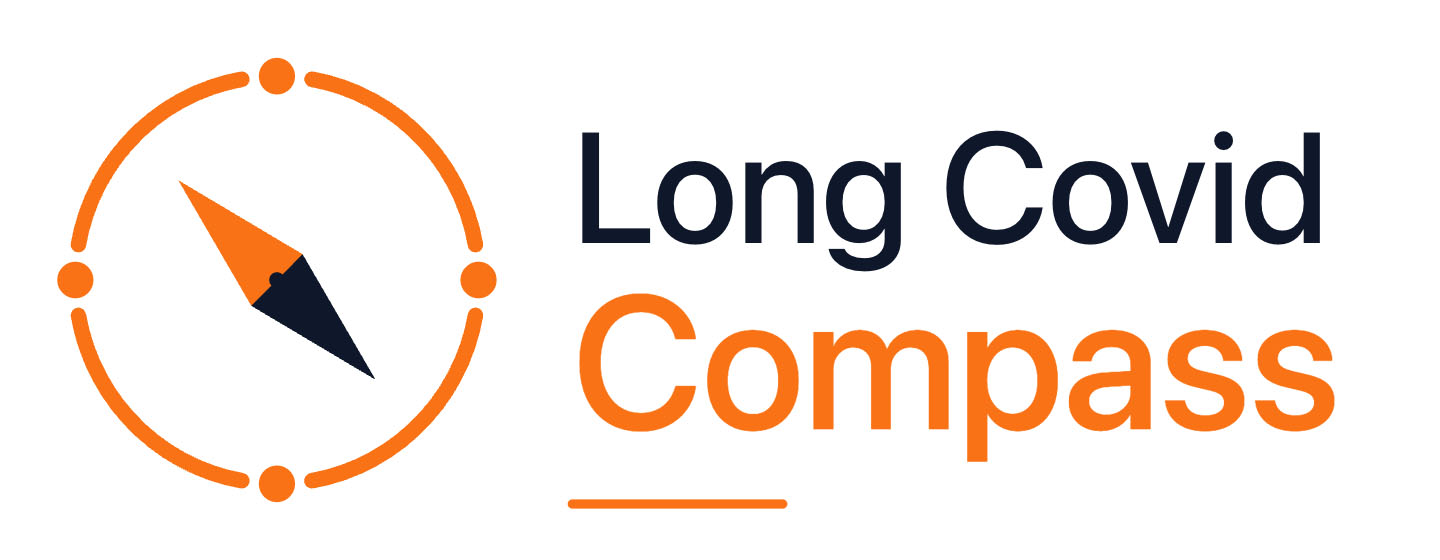
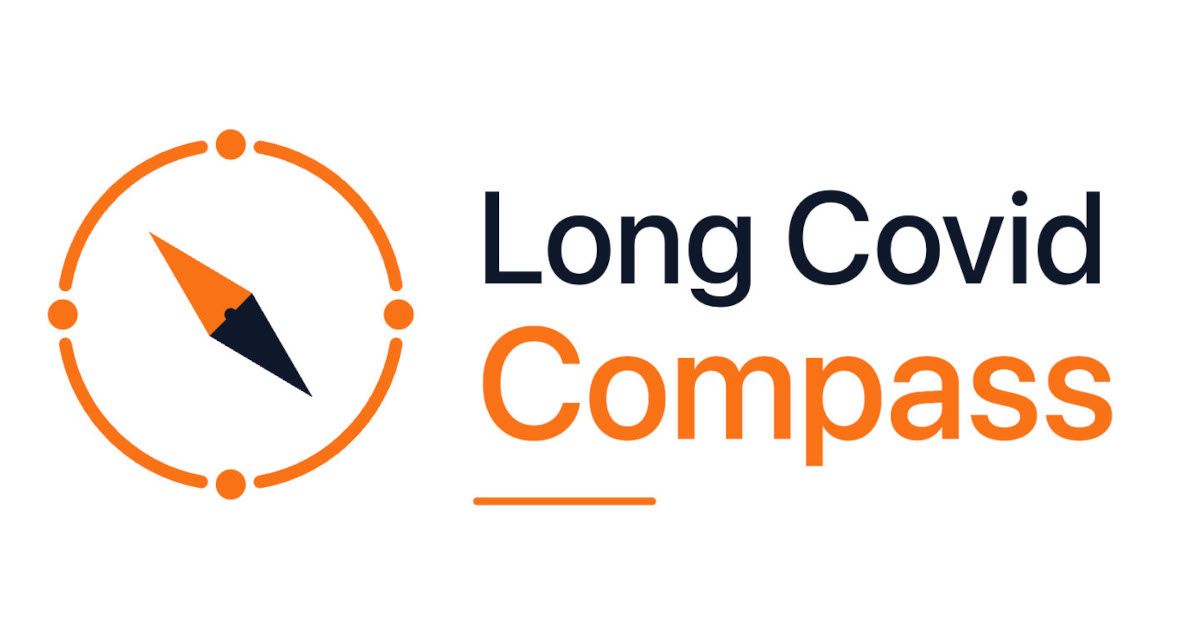
Update layout metadata and image dimensions for improved clarity and presentation
- Revised the meta title and description in `layout.tsx` for better alignment with the project's focus.
- Adjusted image dimensions for the Open Graph image to enhance visual representation.
- Added a new `.DS_Store` file in the `app` directory for macOS directory management.

diff --git a/app/layout.tsx b/app/layout.tsx
@@ -10,18 +10,18 @@ const inter = Inter({
 })
 
 export const metadata: Metadata = {
-  title: 'Long Covid Compass',
-  description: 'Navigate Long COVID through real-world experiences. AI-powered insights from thousands of Reddit discussions.',
+  title: 'Long Covid Compass — Navigate Long COVID through real experiences',
+  description: 'Navigate Long COVID through real-world experiences. AI-powered insights from thousands of online community discussions.',
   openGraph: {
-    title: 'Long Covid Compass',
-    description: 'Navigate Long COVID through real-world experiences. AI-powered insights from thousands of Reddit discussions.',
+    title: 'Long Covid Compass — Navigate Long COVID through real experiences',
+    description: 'Navigate Long COVID through real-world experiences. AI-powered insights from thousands of online community discussions.',
     url: 'https://rag-longcovid-reddit-navigator-fron.vercel.app',
     siteName: 'Long Covid Compass',
     images: [
       {
         url: '/og-image.jpg',
-        width: 1440,
-        height: 560,
+        width: 1200,
+        height: 630,
         alt: 'Long Covid Compass — Navigate Long COVID through real-world experiences',
       },
     ],
@@ -29,8 +29,8 @@ export const metadata: Metadata = {
   },
   twitter: {
     card: 'summary_large_image',
-    title: 'Long Covid Compass',
-    description: 'Navigate Long COVID through real-world experiences. AI-powered insights from thousands of Reddit discussions.',
+    title: 'Long Covid Compass — Navigate Long COVID through real experiences',
+    description: 'Navigate Long COVID through real-world experiences. AI-powered insights from thousands of online community discussions.',
     images: ['/og-image.jpg'],
   },
 }
